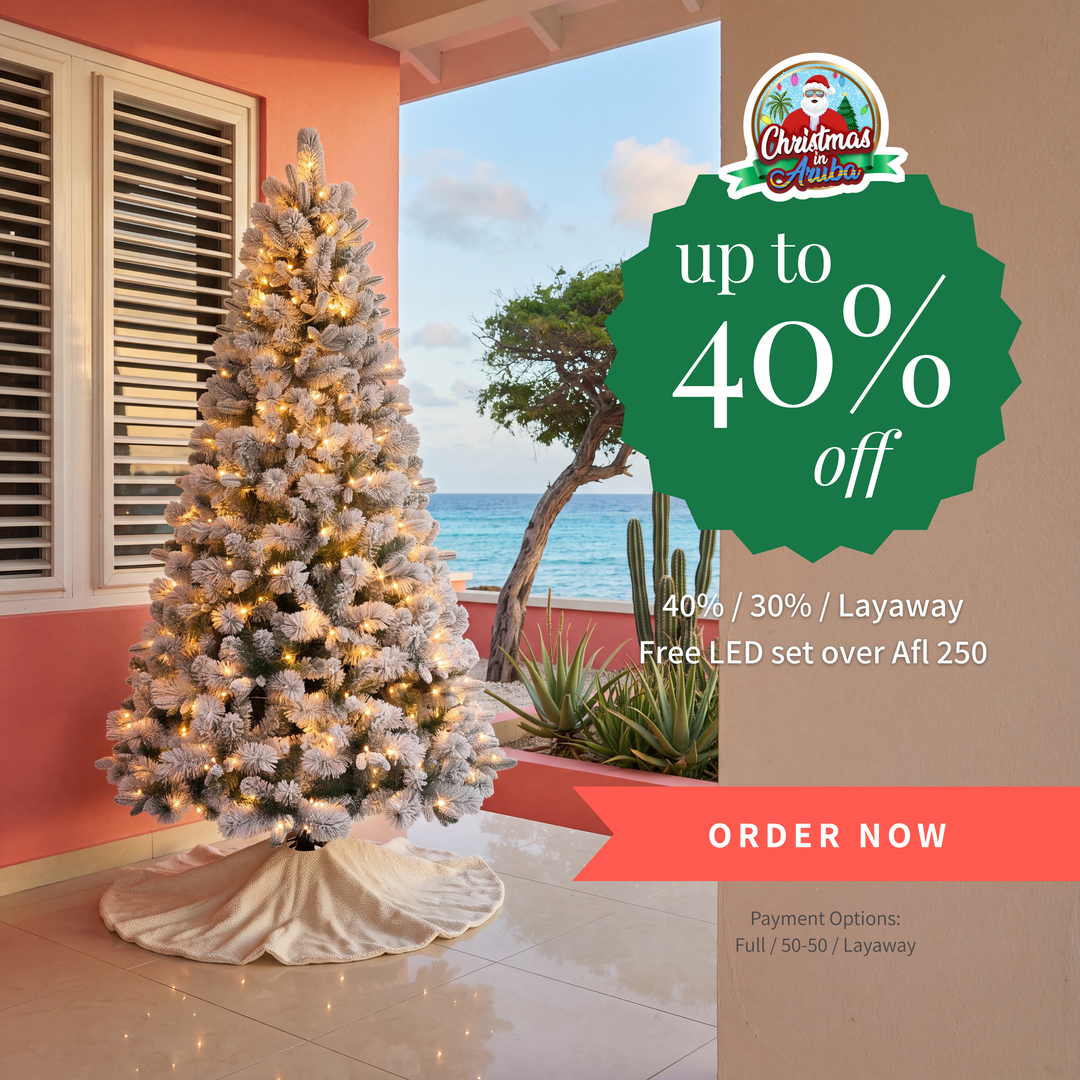
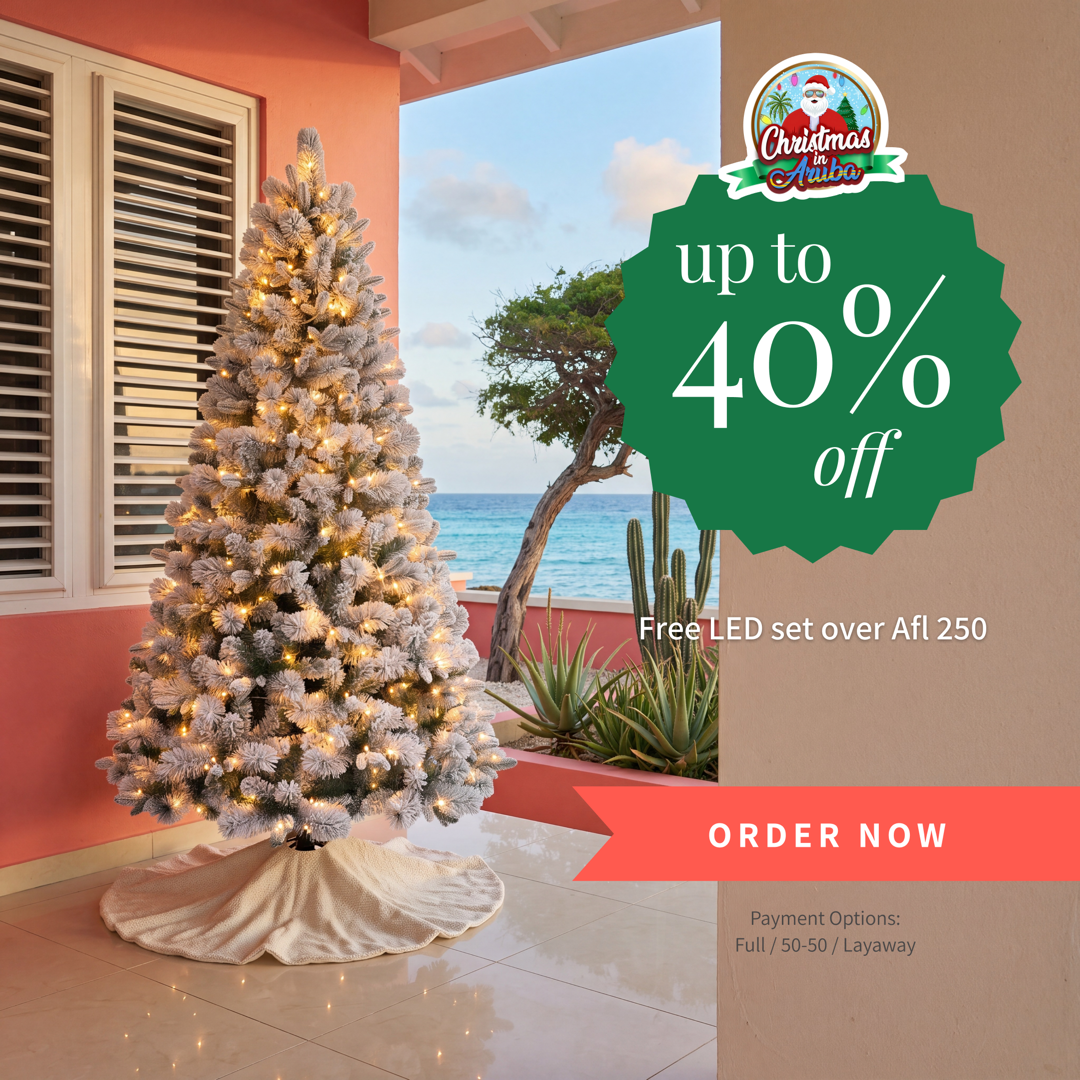
CIA: collapse tiered offer to flat 40% (full or half), Ad 3
- data.json + gen_data.py: Ad 3 copy drops the 40/30 discount ladder ->
  flat 40% on any pre-order, pay full or half; layaway = payment
  flexibility (no discount). gen_data.py reconciled so a regen reproduces
  data.json identically (verified by diff).
- Ad 3 feed + story images re-exported from Figma with the on-image
  '40% / 30% / Layaway' line removed (badge 'up to 40% off' kept).
- 'Up to 40% off' summary language left intact everywhere (Ads 1/2/4/5/6):
  still accurate since layaway carries no discount.

diff --git a/christmas-in-aruba/gen_data.py b/christmas-in-aruba/gen_data.py
@@ -102,9 +102,9 @@ def ad3():
         "format": "Static image, 1080x1080 (square) + 1080x1920 (vertical)",
         "placements": ["Feed", "Stories", "Reels"],
         "primary_text": [
-            "The earlier you commit, the more you save.\n\nChoose the pre-order plan that fits you:\n→ Pay in full today — save 40%\n→ Pay half now — save 30%\n→ Layaway: split it into 4 easy monthly payments\n\nFor a limited time, every pre-order ships free across Aruba and is delivered before November. And with any purchase over Afl 250, we'll add a free 500-count Color-Changing LED Light Set with remote — a $50 value, while supplies last.\n\nLock in this year's price and let the countdown begin.",
-            "Our Christmas in July event is on — up to 40% off when you plan ahead.\n\nReserve now and pick your plan: pay in full and save 40%, pay half and save 30%, or spread it across 4 monthly payments with Layaway.\n\nFor a limited time, every pre-order includes free island-wide delivery before November — plus a free 500-count Color-Changing LED Light Set with remote on any purchase over Afl 250 — a $50 value, while supplies last.\n\nThe best trees go early. Reserve yours today.",
-            "Here's how pre-order works, and why it pays to be early:\n\n1. Pay 100% now → save 40%\n2. Pay 50% now → save 30%\n3. Prefer to spread it out? Layaway — 4 monthly payments\n\nFor a limited time, every pre-order ships free before November, and any order over Afl 250 comes with a free 500-count Color-Changing LED Light Set with remote (a $50 value, while supplies last).\n\nNo stress, no last-minute scramble — just your tree, ready when you are.",
+            "Reserve now and save 40% on your pre-order — pay in full or pay half, the discount's the same either way.\n\nPrefer to spread it out? Layaway splits it into 4 easy monthly payments.\n\nFor a limited time, every pre-order ships free across Aruba and is delivered before November. And with any purchase over Afl 250, we'll add a free 500-count Color-Changing LED Light Set with remote — a $50 value, while supplies last.\n\nLock in this year's price and let the countdown begin.",
+            "Our Christmas in July event is on — 40% off every pre-order when you plan ahead.\n\nPay in full or pay half, you still save 40%. Prefer to spread it out? Layaway splits it into 4 monthly payments.\n\nFor a limited time, every pre-order includes free island-wide delivery before November — plus a free 500-count Color-Changing LED Light Set with remote on any purchase over Afl 250 — a $50 value, while supplies last.\n\nThe best trees go early. Reserve yours today.",
+            "Here's how pre-order works, and why it pays to be early:\n\nReserve now and save 40% — pay in full or pay half, your choice. Want to spread it out? Layaway splits it into 4 monthly payments.\n\nFor a limited time, every pre-order ships free before November, and any order over Afl 250 comes with a free 500-count Color-Changing LED Light Set with remote (a $50 value, while supplies last).\n\nNo stress, no last-minute scramble — just your tree, ready when you are.",
         ],
         "headline": [
             "Christmas in July — Up to 40% Off",
@@ -113,11 +113,11 @@ def ad3():
         ],
         "description": [
             "Free Delivery on Pre-Orders",
-            "40% / 30% / Layaway",
+            "40% Off · Full or Half",
             "Free LED Set Over Afl 250",
         ],
         "cta": "Order Now",
-        "hook": "Pay in full and save 40%, pay half and save 30%, or split it with Layaway — free delivery before November.",
+        "hook": "Save 40% on any pre-order — pay in full or half, or spread it with Layaway. Free delivery before November.",
         "arc": "The pre-order offer — value stack + flexible payment (reciprocity)",
         "wave": 2,
         "stories": {
@@ -207,9 +207,9 @@ def ad6():
         "format": "Static image, 1080x1080 (square) + 1080x1920 (vertical)",
         "placements": ["Feed", "Stories"],
         "primary_text": [
-            "Here's the honest truth about how we work: we're an island shop, not a big-box warehouse. Supplies are limited — and once a tree sells out, it's gone for the season.\n\nWe'll have trees available all season long, but pre-ordering is how you guarantee the exact one you want, at up to 40% off.\n\nReserve today — for a limited time, every pre-order includes free island-wide delivery before November.",
+            "Here's the honest truth about how we work: we're a small island business, not a big-box warehouse. Supplies are limited — and once a tree sells out, it's gone for the season.\n\nDeluxe models sell out early — pre-ordering is how you guarantee the exact one you want, at up to 40% off.\n\nReserve today — for a limited time, every pre-order includes free island-wide delivery before November.",
             "The pre-order window is closing.\n\nPre-ordering is how you lock in the tree you want at the best price of the year — because supplies are limited, and the most-loved styles always sell out first.\n\nReserve now for up to 40% off and free island-wide delivery before November — free delivery is a limited-time pre-order perk.",
-            "Fair warning from the island's Christmas store: supplies are limited.\n\nWe'll have trees available all season — but once a style sells out, that's it until next year. Pre-ordering guarantees yours now, at up to 40% off.\n\nReserve today for free island-wide delivery before November, for a limited time.",
+            "Fair warning from the island's Christmas store: supplies are limited.\n\nDeluxe models sell out early — and once a style sells out, that's it until next year. Pre-ordering guarantees yours now, at up to 40% off.\n\nReserve today for free island-wide delivery before November, for a limited time.",
         ],
         "headline": [
             "Pre-Orders Close Soon",
@@ -544,10 +544,11 @@ def main():
         "brandmark": "images/cia-brandmark.png",
         "cta_url": "https://christmasinaruba.com",
         "compliance_notes": [
-            "Offer ladder: 100% upfront = 40% off; 50% upfront = 30% off; Layaway = 4 equal monthly payments, no discount.",
+            "Offer: full or half pre-order = 40% off; Layaway = 4 equal monthly payments, no discount.",
             "GWP: free 500-count Color-Changing LED Light Set with remote control ($50 retail value) with any purchase over Afl 250, while supplies last.",
             "Free island-wide (Aruba) delivery on all pre-orders — limited time, pre-orders only; delivered before November 1. Copy must never present free delivery as a standing policy.",
             "Scarcity framing (client 2026-07-17): supplies are limited and sell-outs are final PER STYLE — but trees remain for sale in-season. Never imply the store will have nothing available outside the pre-order window.",
+            "Wording (client 2026-07-21): don't state 'we'll have trees available all season long' — use the 'deluxe models sell out early' angle instead. Avoid calling the business a 'shop' (sounds like a physical retail location); 'store' or 'small island business' is fine.",
             "Prices/availability to confirm against live Shopify before launch (site currently shows Sold Out placeholders).",
         ],
         "hide_design_direction": False,
@@ -559,7 +560,7 @@ def main():
     story_offer = {
         1: "Up to 40% Off · Delivered before Nov",
         2: "Up to 40% Off · Free island delivery",
-        3: "40% / 30% / Layaway · Free LED set over Afl 250",
+        3: "Save 40% · Pay Full or Half · Free LED set over Afl 250",
         4: "Up to 40% Off · Reserve now",
         5: "Up to 40% Off · Delivered before Nov",
         6: "Up to 40% Off · Free delivery before Nov",